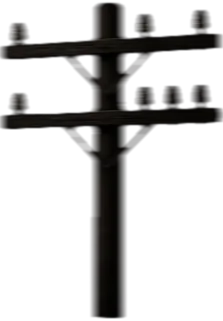
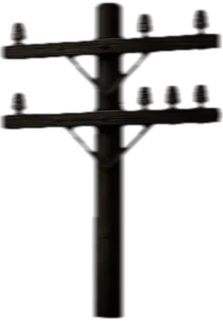
창밖 전봇대를 둑 너머로: 작게, 가로대·전깃줄은 창 위쪽, 밑동은 풀숲 뒤, 둑보다 느리게

diff --git a/public/cover.js b/public/cover.js
@@ -31,9 +31,9 @@
   let W = 0, H = 0, dpr = 1, raf = 0, last = 0, alive = false;
 
   // 속도 단위는 "창 높이/초". 가까운 것일수록 빠르다.
-  const V = { far: 0.022, mid: 0.26, near: 1.15, pole: 1.9 };
+  const V = { far: 0.022, mid: 0.26, wire: 0.85, near: 1.15, pole: 1.9 };
   const S = {
-    t: 0, speed: 1, far: rnd() * 40, mid: rnd() * 400, near: rnd() * 4000, pole: rnd() * 4000,
+    t: 0, speed: 1, far: rnd() * 40, mid: rnd() * 400, near: rnd() * 4000, wire: rnd() * 4000, pole: rnd() * 4000,
     evs: [], nextEv: 4 + rnd() * 4, lastKind: '',
     rain: 0, rainUntil: 0, drops: [],
     lean: 0, leanT: 0, nextLean: 8 + rnd() * 8,
@@ -194,6 +194,31 @@
       c.clip();
     }
 
+    // 전봇대와 전깃줄 — 둑 너머 조금 떨어져 서 있다. 가로대와 줄은 창 위쪽에 걸리고
+    // 밑동은 풀숲 뒤로 숨는다. 둑보다 멀어서 조금 느리게 지나가고, 앞의 나무에 가리기도 한다.
+    const PH = 0.9, PY = -0.04;   // 전봇대 높이와 꼭대기 자리(창 높이 비율)
+    // 간격은 창 너비 두세 개, 그리고 전봇대 줄이 아예 없는 구간도 길게 섞인다
+    const pc = 2.8, p0 = Math.floor((S.wire + L / h) / pc) - 1, p1 = Math.ceil((S.wire + R / h) / pc) + 1;
+    const poleX = (k) => (k * pc + (hash(k * 3 + 900) - 0.5) * 0.6 - S.wire) * h;
+    const noLine = (k) => !S.allPoles && noise(k * 0.22, 31) < 0.42;   // allPoles: 확인용
+    const blocked = (sx, k) => noLine(k) || S.evs.some((ev) => ev.kind !== 'passing' && sx > (ev.x - 0.7) * h && sx < (ev.x + ev.len + 0.7) * h);
+    const pw = ok(IMG.pole) ? (PH * h * IMG.pole.naturalWidth) / IMG.pole.naturalHeight : h * 0.3;
+    const arms = [PY + PH * 0.13, PY + PH * 0.355];
+    c.strokeStyle = 'rgba(14,12,10,.8)'; c.lineWidth = Math.max(1, h * 0.003);
+    c.beginPath();
+    for (let k = p0; k < p1; k++) {
+      const a = poleX(k), b = poleX(k + 1);
+      if (blocked(a, k) || blocked(b, k + 1)) continue;
+      for (const ay of arms) for (const dx of [-0.05, 0.04]) {   // 옆에서 보면 한 가로대의 줄들은 거의 겹친다
+        c.moveTo(a + dx * pw, h * ay); c.quadraticCurveTo((a + b) / 2 + dx * pw, h * (ay + 0.11 + dx * 0.3), b + dx * pw, h * ay);
+      }
+    }
+    c.stroke();
+    for (let k = p0; k <= p1; k++) {
+      const a = poleX(k);
+      if (!blocked(a, k)) spr(IMG.pole, a, h * (PY + PH), PH, false);
+    }
+
     // 가까운 것들: 숲의 전나무·마른 나무, 들의 울타리·짚더미, 마을의 돌집
     const base = h * 0.93;
     const nc = 0.32, n0 = Math.floor((S.near + L / h) / nc) - 3, n1 = Math.ceil((S.near + R / h) / nc) + 3;
@@ -225,30 +250,6 @@
 
     // 끼어드는 일들 뒤쪽(역 건물·승강장, 철교)
     for (const ev of S.evs) drawEvent(ev, true);
-
-    // 전봇대와 늘어진 전깃줄 — 지나갈 때마다 줄이 오르내린다
-    const PH = 1.3, PY = -0.06;   // 전봇대 높이와 꼭대기 자리(창 높이 비율)
-    // 간격은 창 너비 두세 개, 그리고 전봇대 줄이 아예 없는 구간도 길게 섞인다
-    const pc = 3.4, p0 = Math.floor((S.pole + L / h) / pc) - 1, p1 = Math.ceil((S.pole + R / h) / pc) + 1;
-    const poleX = (k) => (k * pc + (hash(k * 3 + 900) - 0.5) * 0.8 - S.pole) * h;
-    const noLine = (k) => noise(k * 0.22, 31) < 0.42;
-    const blocked = (sx, k) => noLine(k) || S.evs.some((ev) => ev.kind !== 'passing' && sx > (ev.x - 0.7) * h && sx < (ev.x + ev.len + 0.7) * h);
-    const pw = ok(IMG.pole) ? (PH * h * IMG.pole.naturalWidth) / IMG.pole.naturalHeight : h * 0.4;
-    const arms = [PY + PH * 0.13, PY + PH * 0.355];
-    c.strokeStyle = 'rgba(14,12,10,.85)'; c.lineWidth = Math.max(1, h * 0.004);
-    c.beginPath();
-    for (let k = p0; k < p1; k++) {
-      const a = poleX(k), b = poleX(k + 1);
-      if (blocked(a, k) || blocked(b, k + 1)) continue;
-      for (const ay of arms) for (const dx of [-0.05, 0.04]) {   // 옆에서 보면 한 가로대의 줄들은 거의 겹친다
-        c.moveTo(a + dx * pw, h * ay); c.quadraticCurveTo((a + b) / 2 + dx * pw, h * (ay + 0.3 + dx * 0.4), b + dx * pw, h * ay);
-      }
-    }
-    c.stroke();
-    for (let k = p0; k <= p1; k++) {
-      const a = poleX(k);
-      if (!blocked(a, k)) spr(IMG.pole, a, h * (PY + PH), PH, false);
-    }
 
     // 끼어드는 일들 앞쪽(터널, 역 등·사람, 마주 오는 기차)
     for (const ev of S.evs) drawEvent(ev, false);
@@ -362,7 +363,7 @@
     const target = 1 + 0.12 * Math.sin(S.t * 0.07) + 0.05 * Math.sin(S.t * 0.23);
     S.speed += (target - S.speed) * Math.min(1, dt);
     const v = S.speed * (still ? 0.35 : 1);
-    S.far += V.far * v * dt; S.mid += V.mid * v * dt; S.near += V.near * v * dt; S.pole += V.pole * v * dt;
+    S.far += V.far * v * dt; S.mid += V.mid * v * dt; S.near += V.near * v * dt; S.wire += V.wire * v * dt; S.pole += V.pole * v * dt;
 
     for (const ev of S.evs) ev.x -= ev.v * v * dt;
     S.evs = S.evs.filter((ev) => ev.x + ev.len > -0.5);

diff --git a/tools/scenery.py b/tools/scenery.py
@@ -153,8 +153,8 @@ SPR = {'pine': (150, 200), 'bare': (470, 330), 'cottage': (860, 240), 'pole': (1
        'fence': (205, 635), 'hay': (590, 610), 'lamp': (912, 600), 'man': (1210, 590)}
 for nm, (x, y) in SPR.items():
     p = pick(sheet, x, y)
-    p = night(p, 0.5 if nm != 'pole' else 0.32)
-    p = blur_x(p, {'pole': 5, 'lamp': 2}.get(nm, 2))
+    p = night(p, 0.5 if nm != 'pole' else 0.42)
+    p = blur_x(p, {'pole': 3, 'lamp': 2}.get(nm, 2))
     size = save(p, nm, h=420)
     meta[nm] = {'w': size[0], 'h': size[1]}
 
